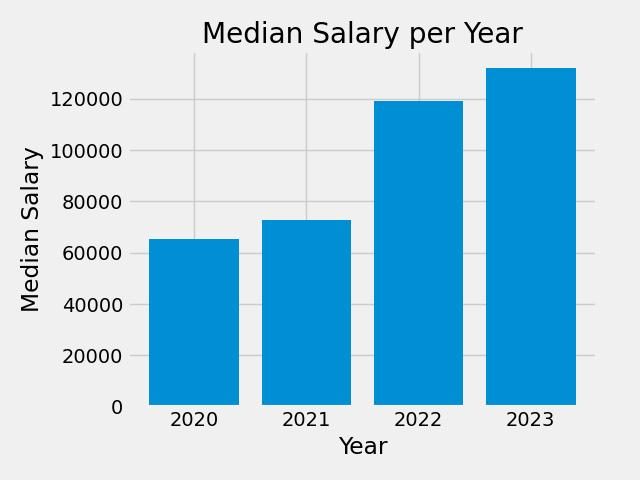
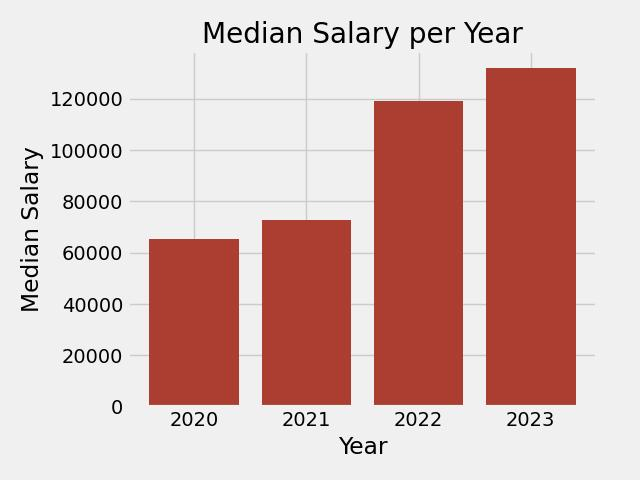
,l,

Changed region(s): [[0.4062, 0.125, 0.9062, 0.8438], [0.2188, 0.4688, 0.375, 0.8438]]

diff --git a/portfolio.py b/portfolio.py
@@ -1,8 +1,10 @@
 import pandas as pd
 import sys
 from matplotlib import pyplot as plt
+from matplotlib import axis as axis
 from matplotlib import dates as mpl_dates
-
+import matplotlib.ticker as ticker
+colors = ["#AC3E31", "#484848", "#DBAE58", "#DADADA", "#20283E", "#488A99"]
 
 
 plt.style.use("fivethirtyeight")
@@ -18,30 +20,56 @@ salaries["Yeardt"] = pd.to_datetime(salaries["Year"], format="%Y")
 salaries2 = salaries.groupby("Yeardt",as_index=False).median("Salary in Euro")
 x = salaries2["Year"]
 y = salaries2["Salary in Euro"]
-plt.bar(x, y)
-#date_year_format = mpl_dates.DateFormatter("%Y")
-#years = mpl_dates.YearLocator()
-#ax = plt.gca()
-#ax.xaxis.set_major_locator(years)
+plt.bar(x, y, color = colors[0])
 
-#ax.xaxis.set_major_formatter(date_year_format)
-#ax.autoscale_view()
 plt.title("Median Salary per Year")
 plt.xlabel('Year')
 plt.ylabel('Median Salary')
 plt.tight_layout()
 #plt.show()
 plt.savefig('MedianPerYear.jpg')
-
+plt.close()
 #top 10
 #filter 2023
 fil2023 = (salaries["Year"] == 2023)
 salaries2023 = salaries.loc[fil2023]
 salaries_by_title = salaries2023.groupby("Job Title",as_index=False).median("Salary in Euro").sort_values("Salary in Euro", ascending = False).head(10)
-salaries_by_title.plot.bar(x = "Job Title", y = "Salary in Euro", width = 0.9, title = "Top 10 median salary by Job Title")
+salaries_by_title.plot.bar(x = "Job Title", y = "Salary in Euro", width = 0.9, title = "Top 10 median salary by Job Title",color = colors[0])
 
 #Pie chart for exp
 #list for chart
 srt_list = ["Entry", "Middle", "Senior", "Executive"]
 experience_pie = pd.DataFrame(salaries2023["Experience Level"].value_counts(normalize=True))
-experience_pie.reindex(srt_list).plot.pie(y = "proportion", title = "Experience Level in 2023", legend = True, startangle = 90, ylabel = "", counterclock = False)
+experience_pie.reindex(srt_list).plot.pie(y = "proportion", title = "Experience Level in 2023", legend = True, startangle = 90, ylabel = "", counterclock = False,colors = colors)
+
+#salary by experience level
+salary_experience = salaries2023.groupby(by="Experience Level",as_index=False)[["Experience Level", "Salary in Euro"]].median("Salary in Euro")
+salary_experience["Experience Level"] = salary_experience["Experience Level"].astype("category")
+salary_experience["Experience Level"] = salary_experience["Experience Level"].cat.as_ordered()
+salary_experience["Experience Level"] = salary_experience["Experience Level"].cat.set_categories(srt_list)
+
+salary_experience.sort_values("Experience Level").plot.bar(x = "Experience Level", y = "Salary in Euro", title = "Salary by experience Level", color = colors)
+
+#salary trend per year
+salaries_year = salaries.groupby(by=["Year", "Experience Level"], as_index=False)[["Year", "Experience Level", "Salary in Euro"]].median("Salary in Euro")
+salaries_year["Experience Level"] = salaries_year["Experience Level"].astype("category")
+salaries_year["Experience Level"] = salaries_year["Experience Level"].cat.as_ordered()
+salaries_year["Experience Level"] = salaries_year["Experience Level"].cat.set_categories(srt_list)
+
+# salaries_year.sort_values("Experience Level").plot.bar(x = "Year", y = ["Experience Level", "Salary in Euro"], title = "Salary by experience Level", color = colors)
+
+x = salaries_year["Year"].unique().astype(int)
+#y2020 = salaries_year.loc[salaries_year["Year"] == 2020].set_index("Experience Level")
+y2021 = salaries_year.loc[salaries_year["Year"] == 2021].set_index("Experience Level").reindex(srt_list)
+y2022 = salaries_year.loc[salaries_year["Year"] == 2022].set_index("Experience Level").reindex(srt_list)
+y2023 = salaries_year.loc[salaries_year["Year"] == 2023].set_index("Experience Level").reindex(srt_list)
+#plt.bar(x - 0.3 , y2020["Salary in Euro"], width = 0.2)
+plt.bar(x - 0.2, y2021["Salary in Euro"], width = 0.2)
+plt.bar(x, y2022["Salary in Euro"], width = 0.2)
+plt.bar(x  + 0.2, y2023["Salary in Euro"], width = 0.2)
+
+plt.tight_layout()
+plt.legend()
+plt.set_major_locator(ticker.MaxNLocator(integer=True))
+plt.show()
+salaries_year.sort_values("Experience Level").plot.bar(x = "Year" , y = "Salary in Euro", title = "Salary by experience Level", color = colors)
